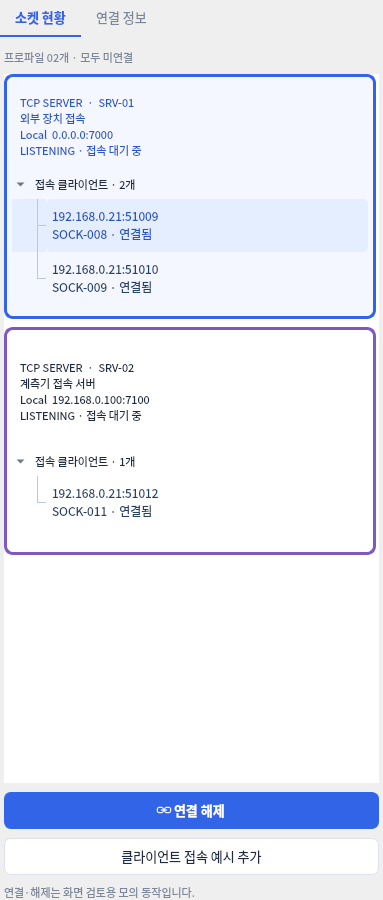
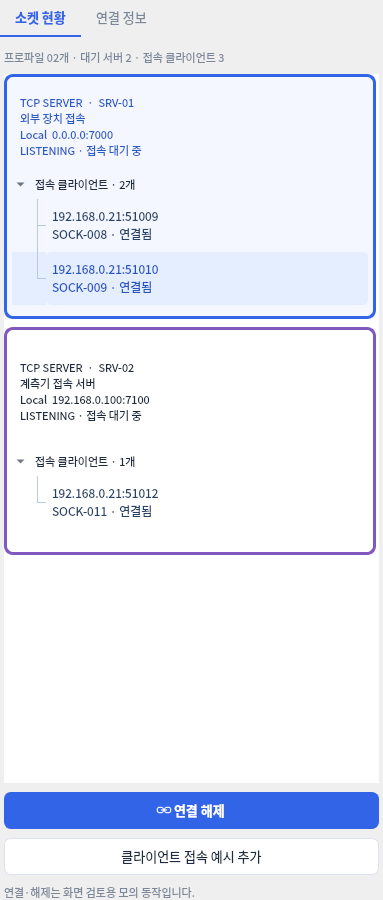
Keep socket summary consistent with current listener and client states

diff --git a/prototype/src/ds_simulator/workspace.py b/prototype/src/ds_simulator/workspace.py
@@ -304,6 +304,9 @@ class WorkspaceMixin:
 
     def update_send_button(self):
         connection = self.selected_connection()
+        listeners = sum(s.role == "Listen" and s.state == "LISTENING" for s in self.sockets)
+        accepted = sum(s.role == "Accepted" and s.state == "ESTABLISHED" for s in self.sockets)
+        self.connection_summary.setText(f"프로파일 {len(self.connections):02}개 · 대기 서버 {listeners} · 접속 클라이언트 {accepted}")
         sockets = self.connection_sockets(connection)
         current = self.current_socket()
         remote = current.remote_endpoint if current and connection.mode == "TCP Server" else connection.remote_endpoint
